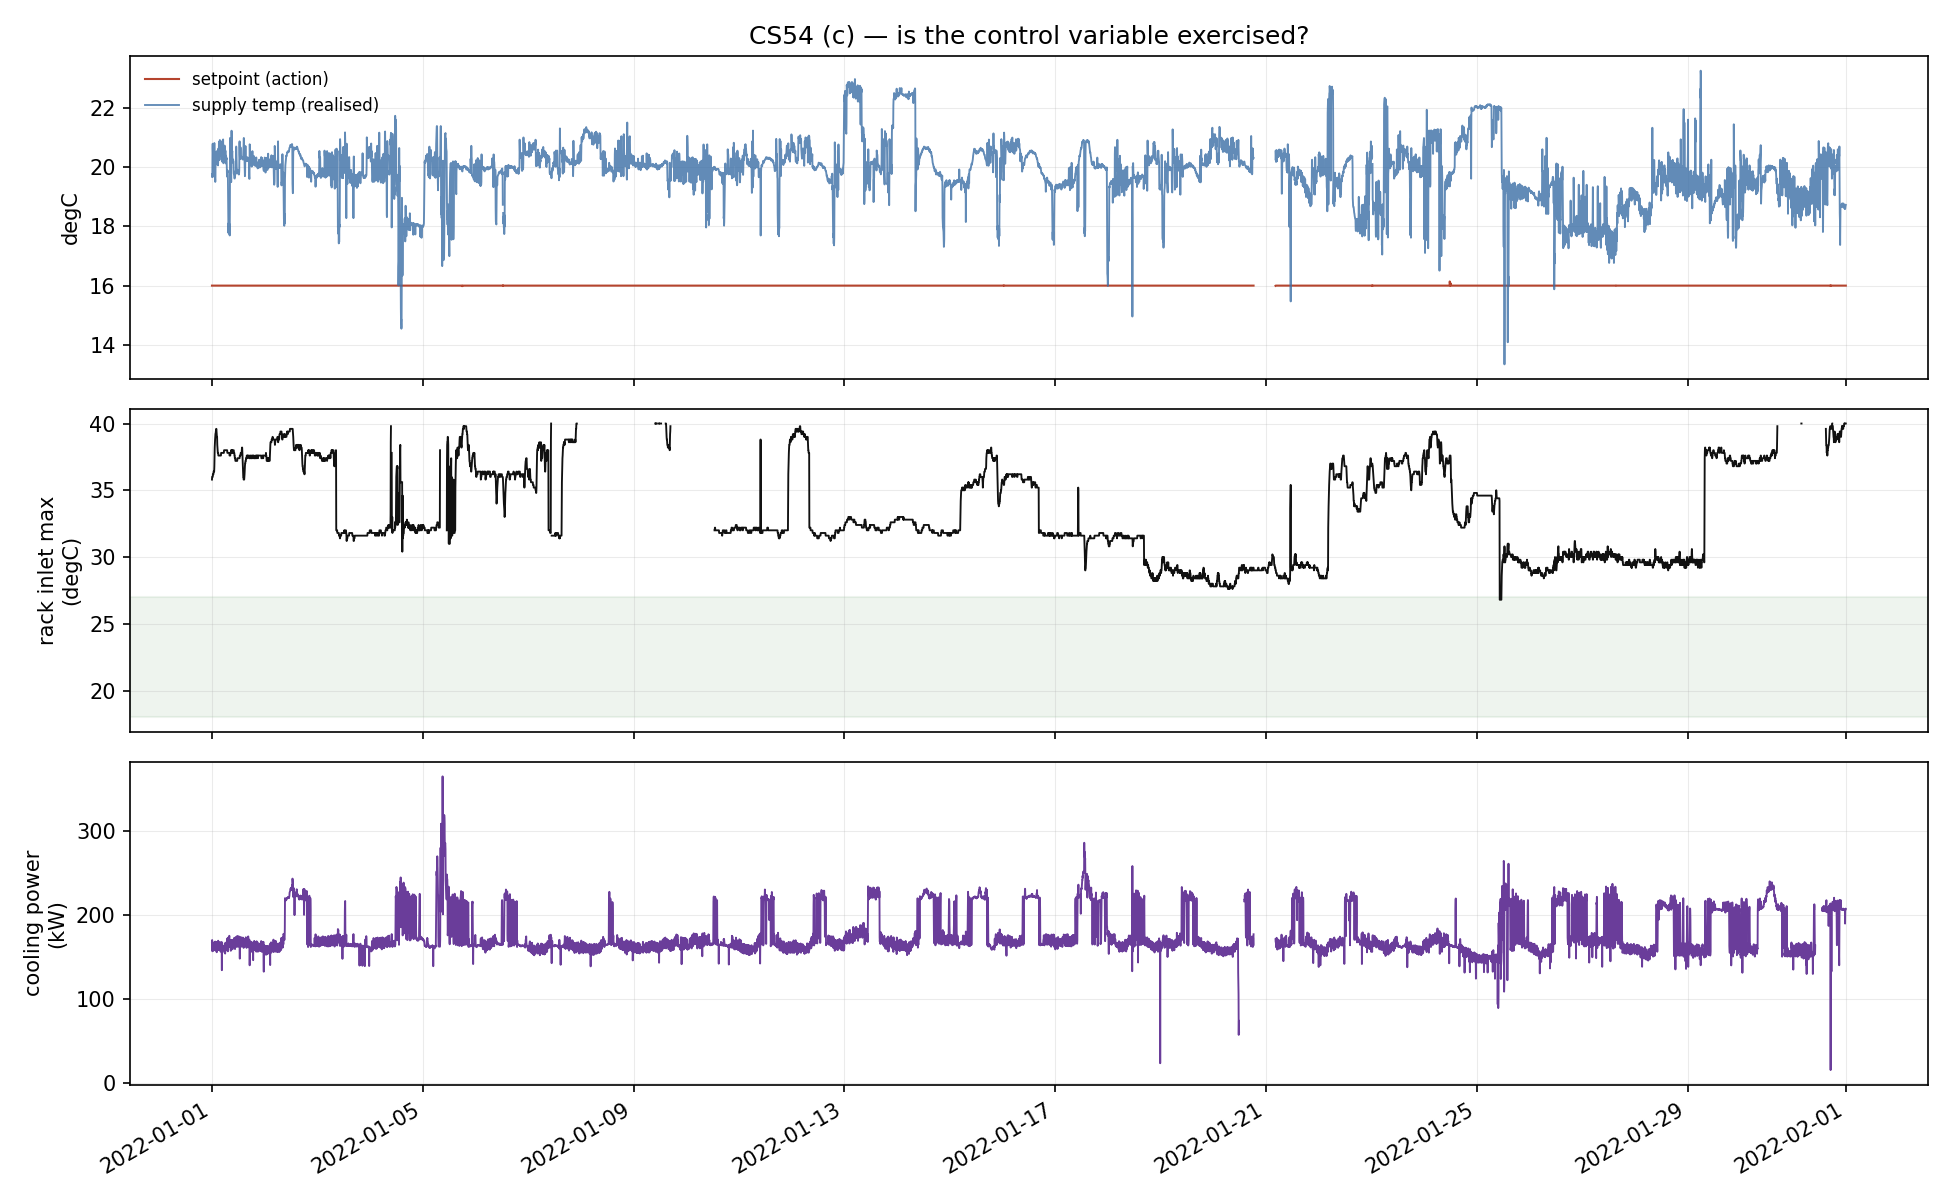
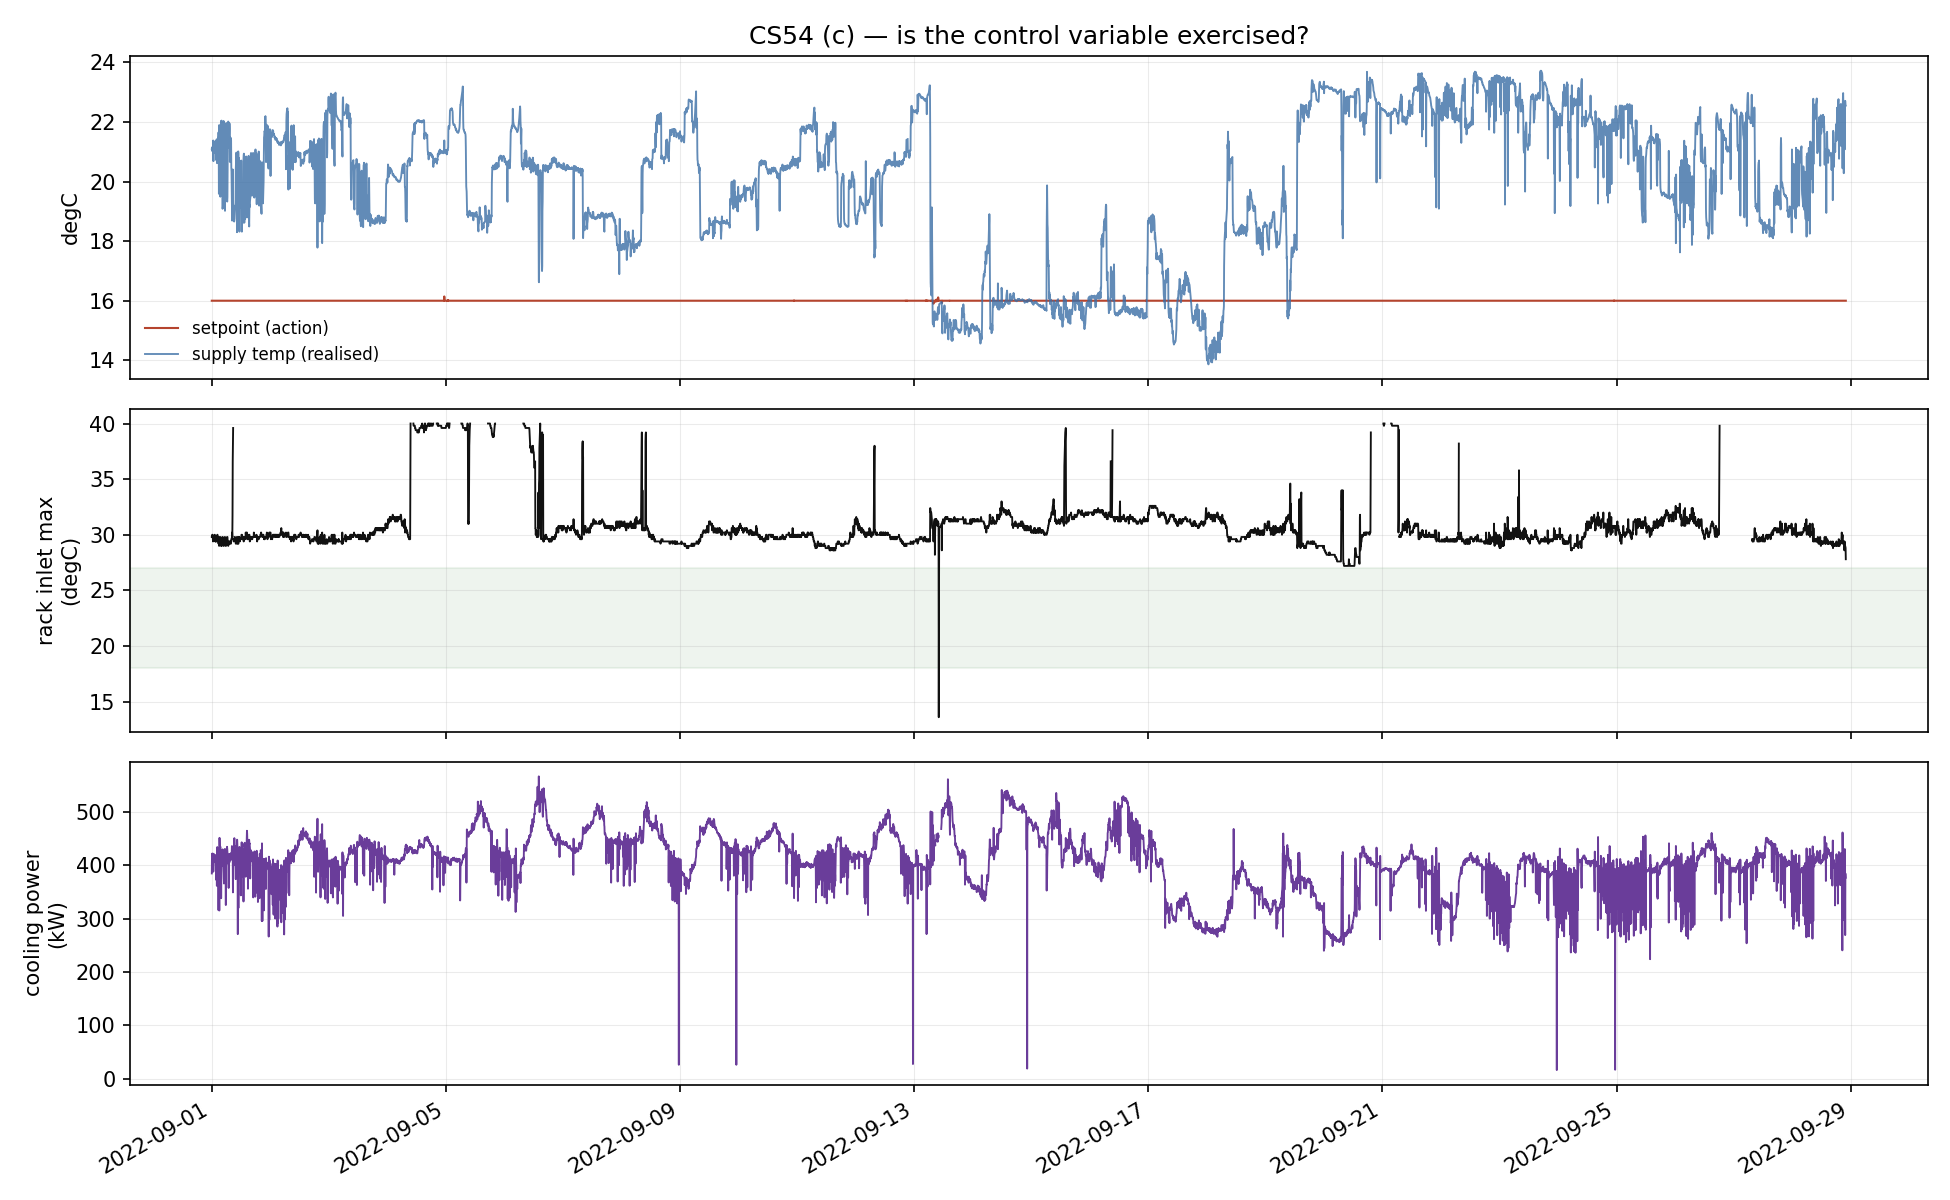
Add 22-09 summer run artifacts and overnight scripts
- results: data dictionary and PS3 action scan for 22-09
- figures: updated PS3 facility overview
- scripts: overnight_2209.sh, env_2209.sh

Claude-Session: https://claude.ai/code/session_01JRsGKQP4wfcGc6yKpsrfzk

diff --git a/results/data_dictionary_22-09.md b/results/data_dictionary_22-09.md
@@ -1,0 +1,69 @@
+# CS54 — M100 data dictionary (22-09)
+
+Siddharth Sahoo · RA2512005010041
+
+## Inventory present on disk
+
+### `ganglia_pub` — 177 metrics
+
+`Gpu0_board_limit_violation`, `Gpu0_current_clock_throttle_reasons`, `Gpu0_ecc_dbe_aggregate_total`, `Gpu0_ecc_dbe_volatile_total`, `Gpu0_ecc_sbe_aggregate_total`, `Gpu0_ecc_sbe_volatile_total`, `Gpu0_fb_free`, `Gpu0_fb_total`, `Gpu0_fb_used`, `Gpu0_gpu_temp`, `Gpu0_gpu_util_samples`, `Gpu0_gpu_utilization`, `Gpu0_low_util_violation`, `Gpu0_mem_app_clock`, `Gpu0_mem_copy_utilization`, `Gpu0_memory_clock`, `Gpu0_memory_temp`, `Gpu0_nvlink_bandwidth_total`, `Gpu0_nvlink_data_crc_error_count_total`, `Gpu0_nvlink_flit_crc_error_count_total`, `Gpu0_nvlink_recovery_error_count_total`, `Gpu0_nvlink_replay_error_count_total`, `Gpu0_power_management_limit`, `Gpu0_power_usage`, `Gpu0_power_violation`, `Gpu0_pstate`, `Gpu0_reliability_violation`, `Gpu0_retired_pages_dbe`, `Gpu0_retired_pages_pending`, `Gpu0_retired_pages_sbe`, `Gpu0_sm_app_clock`, `Gpu0_sm_clock`, `Gpu0_sync_boost_violation`, `Gpu0_thermal_violation`, `Gpu0_total_energy_consumption`, `Gpu0_xid_errors`, `Gpu1_board_limit_violation`, `Gpu1_current_clock_throttle_reasons`, `Gpu1_ecc_dbe_aggregate_total`, `Gpu1_ecc_dbe_volatile_total`, `Gpu1_ecc_sbe_aggregate_total`, `Gpu1_ecc_sbe_volatile_total`, `Gpu1_fb_free`, `Gpu1_fb_total`, `Gpu1_fb_used`, `Gpu1_gpu_temp`, `Gpu1_gpu_util_samples`, `Gpu1_gpu_utilization`, `Gpu1_low_util_violation`, `Gpu1_mem_app_clock`, `Gpu1_mem_copy_utilization`, `Gpu1_memory_clock`, `Gpu1_memory_temp`, `Gpu1_nvlink_bandwidth_total`, `Gpu1_nvlink_data_crc_error_count_total`, `Gpu1_nvlink_flit_crc_error_count_total`, `Gpu1_nvlink_recovery_error_count_total`, `Gpu1_nvlink_replay_error_count_total`, `Gpu1_power_management_limit`, `Gpu1_power_usage`, `Gpu1_power_violation`, `Gpu1_pstate`, `Gpu1_reliability_violation`, `Gpu1_retired_pages_dbe`, `Gpu1_retired_pages_pending`, `Gpu1_retired_pages_sbe`, `Gpu1_sm_app_clock`, `Gpu1_sm_clock`, `Gpu1_sync_boost_violation`, `Gpu1_thermal_violation`, `Gpu1_total_energy_consumption`, `Gpu1_xid_errors`, `Gpu2_board_limit_violation`, `Gpu2_current_clock_throttle_reasons`, `Gpu2_ecc_dbe_aggregate_total`, `Gpu2_ecc_dbe_volatile_total`, `Gpu2_ecc_sbe_aggregate_total`, `Gpu2_ecc_sbe_volatile_total`, `Gpu2_fb_free`, `Gpu2_fb_total`, `Gpu2_fb_used`, `Gpu2_gpu_temp`, `Gpu2_gpu_util_samples`, `Gpu2_gpu_utilization`, `Gpu2_low_util_violation`, `Gpu2_mem_app_clock`, `Gpu2_mem_copy_utilization`, `Gpu2_memory_clock`, `Gpu2_memory_temp`, `Gpu2_nvlink_bandwidth_total`, `Gpu2_nvlink_data_crc_error_count_total`, `Gpu2_nvlink_flit_crc_error_count_total`, `Gpu2_nvlink_recovery_error_count_total`, `Gpu2_nvlink_replay_error_count_total`, `Gpu2_power_management_limit`, `Gpu2_power_usage`, `Gpu2_power_violation`, `Gpu2_pstate`, `Gpu2_reliability_violation`, `Gpu2_retired_pages_dbe`, `Gpu2_retired_pages_pending`, `Gpu2_retired_pages_sbe`, `Gpu2_sm_app_clock`, `Gpu2_sm_clock`, `Gpu2_sync_boost_violation`, `Gpu2_thermal_violation`, `Gpu2_total_energy_consumption`, `Gpu2_xid_errors`, `Gpu3_board_limit_violation`, `Gpu3_current_clock_throttle_reasons`, `Gpu3_ecc_dbe_aggregate_total`, `Gpu3_ecc_dbe_volatile_total`, `Gpu3_ecc_sbe_aggregate_total`, `Gpu3_ecc_sbe_volatile_total`, `Gpu3_fb_free`, `Gpu3_fb_total`, `Gpu3_fb_used`, `Gpu3_gpu_temp`, `Gpu3_gpu_util_samples`, `Gpu3_gpu_utilization`, `Gpu3_low_util_violation`, `Gpu3_mem_app_clock`, `Gpu3_mem_copy_utilization`, `Gpu3_memory_clock`, `Gpu3_memory_temp`, `Gpu3_nvlink_bandwidth_total`, `Gpu3_nvlink_data_crc_error_count_total`, `Gpu3_nvlink_flit_crc_error_count_total`, `Gpu3_nvlink_recovery_error_count_total`, `Gpu3_nvlink_replay_error_count_total`, `Gpu3_power_management_limit`, `Gpu3_power_usage`, `Gpu3_power_violation`, `Gpu3_pstate`, `Gpu3_reliability_violation`, `Gpu3_retired_pages_dbe`, `Gpu3_retired_pages_pending`, `Gpu3_retired_pages_sbe`, `Gpu3_sm_app_clock`, `Gpu3_sm_clock`, `Gpu3_sync_boost_violation`, `Gpu3_thermal_violation`, `Gpu3_total_energy_consumption`, `Gpu3_xid_errors`, `boottime`, `bytes_in`, `bytes_out`, `cpu_aidle`, `cpu_idle`, `cpu_nice`, `cpu_num`, `cpu_speed`, `cpu_steal`, `cpu_system`, `cpu_user`, `cpu_wio`, `disk_free`, `disk_total`, `gexec`, `load_fifteen`, `load_five`, `load_one`, `machine_type`, `mem_buffers`, `mem_cached`, `mem_free`, `mem_shared`, `mem_total`, `os_name`, `os_release`, `part_max_used`, `pkts_in`, `pkts_out`, `proc_run`, `proc_total`, `swap_free`, `swap_total`
+
+### `ipmi_pub` — 104 metrics
+
+`ambient`, `dimm0_temp`, `dimm10_temp`, `dimm11_temp`, `dimm12_temp`, `dimm13_temp`, `dimm14_temp`, `dimm15_temp`, `dimm1_temp`, `dimm2_temp`, `dimm3_temp`, `dimm4_temp`, `dimm5_temp`, `dimm6_temp`, `dimm7_temp`, `dimm8_temp`, `dimm9_temp`, `fan0_0`, `fan0_1`, `fan1_0`, `fan1_1`, `fan2_0`, `fan2_1`, `fan3_0`, `fan3_1`, `fan_disk_power`, `gpu0_core_temp`, `gpu0_mem_temp`, `gpu1_core_temp`, `gpu1_mem_temp`, `gpu3_core_temp`, `gpu3_mem_temp`, `gpu4_core_temp`, `gpu4_mem_temp`, `gv100card0`, `gv100card1`, `gv100card3`, `gv100card4`, `p0_core0_temp`, `p0_core10_temp`, `p0_core11_temp`, `p0_core12_temp`, `p0_core13_temp`, `p0_core14_temp`, `p0_core15_temp`, `p0_core16_temp`, `p0_core17_temp`, `p0_core18_temp`, `p0_core19_temp`, `p0_core1_temp`, `p0_core20_temp`, `p0_core21_temp`, `p0_core22_temp`, `p0_core23_temp`, `p0_core2_temp`, `p0_core3_temp`, `p0_core4_temp`, `p0_core5_temp`, `p0_core6_temp`, `p0_core7_temp`, `p0_core8_temp`, `p0_core9_temp`, `p0_io_power`, `p0_mem_power`, `p0_power`, `p0_vdd_temp`, `p1_core0_temp`, `p1_core10_temp`, `p1_core11_temp`, `p1_core12_temp`, `p1_core13_temp`, `p1_core14_temp`, `p1_core15_temp`, `p1_core16_temp`, `p1_core17_temp`, `p1_core18_temp`, `p1_core19_temp`, `p1_core1_temp`, `p1_core20_temp`, `p1_core21_temp`, `p1_core22_temp`, `p1_core23_temp`, `p1_core2_temp`, `p1_core3_temp`, `p1_core4_temp`, `p1_core5_temp`, `p1_core6_temp`, `p1_core7_temp`, `p1_core8_temp`, `p1_core9_temp`, `p1_io_power`, `p1_mem_power`, `p1_power`, `p1_vdd_temp`, `pcie`, `ps0_input_power`, `ps0_input_voltag`, `ps0_output_curre`, `ps0_output_volta`, `ps1_input_power`, `ps1_input_voltag`, `ps1_output_curre`, `ps1_output_volta`, `total_power`
+
+### `job_table` — 1 metrics
+
+`job_info_marconi100`
+
+### `logics_pub` — 37 metrics
+
+`Bad_values`, `Comlost`, `Corrente`, `Corrente_L1`, `Corrente_L2`, `Corrente_L3`, `Dcie`, `Energia`, `Fattore_di_potenza`, `Frequenza`, `Gateway`, `ID_Modbus`, `Mvar`, `Mvarh`, `Mw`, `Mwh`, `Potenza`, `Potenza_attiva`, `Prototype`, `Pue`, `Stato`, `Status`, `Tensione`, `Tot`, `Tot_cdz`, `Tot_chiller`, `Tot_ict`, `Tot_qpompe`, `Tot_servizi`, `Volt1`, `Volt2`, `Volt3`, `address`, `deviceid`, `pit`, `pt`, `pue`
+
+### `nagios_pub` — 1 metrics
+
+`state`
+
+### `schneider_pub` — 164 metrics
+
+`Alm_TY141`, `PLC_PLC_Q101.Abilita_inverter`, `PLC_PLC_Q101.Abilita_valvola1`, `PLC_PLC_Q101.Abilita_valvola2`, `PLC_PLC_Q101.Allarme_on`, `PLC_PLC_Q101.Allarme_presente`, `PLC_PLC_Q101.Alm_inverter_p101`, `PLC_PLC_Q101.Alm_inverter_p102`, `PLC_PLC_Q101.Alm_inverter_p103`, `PLC_PLC_Q101.Alm_inverter_p104`, `PLC_PLC_Q101.Alm_max_portata`, `PLC_PLC_Q101.Alm_max_t_mandata`, `PLC_PLC_Q101.Alm_max_t_ritorno`, `PLC_PLC_Q101.Alm_min_portata`, `PLC_PLC_Q101.Alm_min_t_mandata`, `PLC_PLC_Q101.Alm_nostart_p101`, `PLC_PLC_Q101.Alm_nostart_p102`, `PLC_PLC_Q101.Alm_nostart_p103`, `PLC_PLC_Q101.Alm_nostart_p104`, `PLC_PLC_Q101.Alm_w1`, `PLC_PLC_Q101.Cmd_valvola_1`, `PLC_PLC_Q101.Cmd_valvola_2`, `PLC_PLC_Q101.Delta_temp`, `PLC_PLC_Q101.Diff_minuti_cavedio`, `PLC_PLC_Q101.Diff_minuti_quadro`, `PLC_PLC_Q101.Diff_minuti_sala`, `PLC_PLC_Q101.In_marcia_p101`, `PLC_PLC_Q101.In_marcia_p102`, `PLC_PLC_Q101.In_marcia_p103`, `PLC_PLC_Q101.In_marcia_p104`, `PLC_PLC_Q101.Kp_pid_pompe`, `PLC_PLC_Q101.Kp_pid_valvole`, `PLC_PLC_Q101.Manuale_p101`, `PLC_PLC_Q101.Manuale_p102`, `PLC_PLC_Q101.Manuale_p103`, `PLC_PLC_Q101.Manuale_p104`, `PLC_PLC_Q101.Manuale_ty141`, `PLC_PLC_Q101.Manuale_ty142`, `PLC_PLC_Q101.Max_ana_out_ty141`, `PLC_PLC_Q101.Max_ana_out_ty142`, `PLC_PLC_Q101.Max_ana_portata1`, `PLC_PLC_Q101.Max_ana_portata2`, `PLC_PLC_Q101.Max_ana_pos_ty141`, `PLC_PLC_Q101.Max_ana_pos_ty142`, `PLC_PLC_Q101.Max_portata`, `PLC_PLC_Q101.Max_t_mandata`, `PLC_PLC_Q101.Max_t_ritorno`, `PLC_PLC_Q101.Max_visi_portata2`, `PLC_PLC_Q101.Max_visu_portata1`, `PLC_PLC_Q101.Min_ana_out_ty141`, `PLC_PLC_Q101.Min_ana_out_ty142`, `PLC_PLC_Q101.Min_ana_portata1`, `PLC_PLC_Q101.Min_ana_portata2`, `PLC_PLC_Q101.Min_ana_pos_ty141`, `PLC_PLC_Q101.Min_ana_pos_ty142`, `PLC_PLC_Q101.Min_lavoro_p101`, `PLC_PLC_Q101.Min_lavoro_p102`, `PLC_PLC_Q101.Min_lavoro_p103`, `PLC_PLC_Q101.Min_lavoro_p104`, `PLC_PLC_Q101.Min_lavoro_quadro`, `PLC_PLC_Q101.Min_out_pid_pompe`, `PLC_PLC_Q101.Min_out_pid_valv`, `PLC_PLC_Q101.Min_parz_p101`, `PLC_PLC_Q101.Min_parz_p102`, `PLC_PLC_Q101.Min_parz_p103`, `PLC_PLC_Q101.Min_parz_p104`, `PLC_PLC_Q101.Min_parziali_p101`, `PLC_PLC_Q101.Min_parziali_p102`, `PLC_PLC_Q101.Min_parziali_p103`, `PLC_PLC_Q101.Min_parziali_p104`, `PLC_PLC_Q101.Min_parziali_quadro`, `PLC_PLC_Q101.Min_portata`, `PLC_PLC_Q101.Min_t_mandata`, `PLC_PLC_Q101.Min_vel_pompe`, `PLC_PLC_Q101.Min_visu_portata1`, `PLC_PLC_Q101.Min_visu_portata2`, `PLC_PLC_Q101.Ore_lavoro_p101`, `PLC_PLC_Q101.Ore_lavoro_p102`, `PLC_PLC_Q101.Ore_lavoro_p103`, `PLC_PLC_Q101.Ore_lavoro_p104`, `PLC_PLC_Q101.Ore_parziali_p101`, `PLC_PLC_Q101.Ore_parziali_p102`, `PLC_PLC_Q101.Ore_parziali_p103`, `PLC_PLC_Q101.Ore_parziali_p104`, `PLC_PLC_Q101.Out_pid_pompe`, `PLC_PLC_Q101.Out_pid_val`, `PLC_PLC_Q101.P101_fault`, `PLC_PLC_Q101.P101_in_marcia`, `PLC_PLC_Q101.P102_fault`, `PLC_PLC_Q101.P102_in_marcia`, `PLC_PLC_Q101.P103_fault`, `PLC_PLC_Q101.P103_in_marcia`, `PLC_PLC_Q101.P104_fault`, `PLC_PLC_Q101.P104_in_marcia`, `PLC_PLC_Q101.Pb_arresto_p101`, `PLC_PLC_Q101.Pb_arresto_p102`, `PLC_PLC_Q101.Pb_arresto_p103`, `PLC_PLC_Q101.Pb_arresto_p104`, `PLC_PLC_Q101.Pb_marcia_p101`, `PLC_PLC_Q101.Pb_marcia_p102`, `PLC_PLC_Q101.Pb_marcia_p103`, `PLC_PLC_Q101.Pb_marcia_p104`, `PLC_PLC_Q101.Portata_1`, `PLC_PLC_Q101.Portata_1_hmi`, `PLC_PLC_Q101.Portata_2`, `PLC_PLC_Q101.Portata_2_hmi`, `PLC_PLC_Q101.Portata_attiva`, `PLC_PLC_Q101.Pos_valvola1`, `PLC_PLC_Q101.Pos_valvola_2`, `PLC_PLC_Q101.Posizione_ty141`, `PLC_PLC_Q101.Posizione_ty142`, `PLC_PLC_Q101.Rif_auto_attivo`, `PLC_PLC_Q101.Rif_auto_p101`, `PLC_PLC_Q101.Rif_auto_p102`, `PLC_PLC_Q101.Rif_auto_ty141`, `PLC_PLC_Q101.Rif_auto_ty142`, `PLC_PLC_Q101.Rif_inverter`, `PLC_PLC_Q101.Rif_man_p101`, `PLC_PLC_Q101.Rif_man_p102`, `PLC_PLC_Q101.Rif_man_ty141`, `PLC_PLC_Q101.Rif_man_ty142`, `PLC_PLC_Q101.Sel_misuratore`, `PLC_PLC_Q101.Set_man_pid_pompe`, `PLC_PLC_Q101.Set_man_pid_valv`, `PLC_PLC_Q101.Set_temperatura`, `PLC_PLC_Q101.Start_impianto`, `PLC_PLC_Q101.Start_p101`, `PLC_PLC_Q101.Start_p102`, `PLC_PLC_Q101.Start_p103`, `PLC_PLC_Q101.Start_p104`, `PLC_PLC_Q101.Stato_p101`, `PLC_PLC_Q101.Stato_p102`, `PLC_PLC_Q101.Stato_p103`, `PLC_PLC_Q101.Stato_p104`, `PLC_PLC_Q101.Stato_quadro`, `PLC_PLC_Q101.Status_w1`, `PLC_PLC_Q101.Status_w2`, `PLC_PLC_Q101.T_mandata_hmi`, `PLC_PLC_Q101.T_ritorno_hmi`, `PLC_PLC_Q101.T_scambio_cavedio`, `PLC_PLC_Q101.T_scambio_quadri`, `PLC_PLC_Q101.T_scambio_sala`, `PLC_PLC_Q101.Td_pid_pompe`, `PLC_PLC_Q101.Td_pid_valvole`, `PLC_PLC_Q101.Temp_mandata`, `PLC_PLC_Q101.Temp_ritorno`, `PLC_PLC_Q101.Ti_pid_pompe`, `PLC_PLC_Q101.Ti_pid_valvole`, `PLC_PLC_Q101.V_min_rem_cavedio`, `PLC_PLC_Q101.V_min_rem_quadro`, `PLC_PLC_Q101.V_min_rem_sala`, `PLC_PLC_Q101.V_ore_parz_p101`, `PLC_PLC_Q101.V_ore_parz_p102`, `PLC_PLC_Q101.V_ore_parz_p103`, `PLC_PLC_Q101.V_ore_parz_p104`, `PLC_PLC_Q101.V_ore_parz_quadro`, `PLC_PLC_Q101.V_ore_rem_cavedio`, `PLC_PLC_Q101.V_ore_rem_quadro`, `PLC_PLC_Q101.V_ore_rem_sala`, `PLC_PLC_Q101.V_ore_tot_p101`, `PLC_PLC_Q101.V_ore_tot_p102`, `PLC_PLC_Q101.V_ore_tot_p103`, `PLC_PLC_Q101.V_ore_tot_p104`, `PLC_PLC_Q101.V_ore_tot_quadro`
+
+### `slurm_pub` — 34 metrics
+
+`job_id`, `num_nodes`, `s21.cluster_cpu_util`, `s21.cluster_gpu_util`, `s21.cluster_mem_util`, `s21.jobs.avg_waiting_hour`, `s21.jobs.eligible_v2`, `s21.jobs.nodes_eligible_v2`, `s21.jobs.p95_waiting_hour`, `s21.jobs.tot_gpus`, `s21.jobs.tot_jobs`, `s21.jobs.tot_node_hour`, `s21.jobs.tot_nodes`, `s21.totals.cpus_alloc`, `s21.totals.cpus_config`, `s21.totals.cpus_down`, `s21.totals.cpus_eligible`, `s21.totals.cpus_idle`, `s21.totals.gpus_alloc`, `s21.totals.gpus_config`, `s21.totals.gpus_down`, `s21.totals.gpus_eligible`, `s21.totals.gpus_idle`, `s21.totals.memory_alloc`, `s21.totals.memory_config`, `s21.totals.memory_down`, `s21.totals.memory_eligible`, `s21.totals.memory_idle`, `s21.totals.total_nodes_alloc`, `s21.totals.total_nodes_config`, `s21.totals.total_nodes_down`, `s21.totals.total_nodes_eligible`, `s21.totals.total_nodes_idle`, `s21.totals.total_nodes_mixed`
+
+### `vertiv_pub` — 25 metrics
+
+`Actual_Return_Air_Temperature_Set_Point`, `Actual_Return_Humidity_Set_Point`, `Adjusted_Humidity`, `Compressor_Utilization`, `Dehumidifier_Utilization`, `Ext_Air_Sensor_A_Humidity`, `Ext_Air_Sensor_A_Temperature`, `Ext_Air_Sensor_B_Humidity`, `Ext_Air_Sensor_B_Temperature`, `Ext_Air_Sensor_C_Humidity`, `Ext_Air_Sensor_C_Temperature`, `Fan_Speed`, `Filter_Pressure_Drop`, `Free_Cooling_Fluid_Temperature`, `Free_Cooling_Status`, `Free_Cooling_Valve_Open_Position`, `Hot_Water___Hot_Gas_Valve_Open_Position`, `Humidifier_Utilization`, `Humidity_Set_Point`, `Reheat_Utilization`, `Return_Air_Temperature`, `Return_Humidity`, `Supply_Air_Temperature`, `Supply_Air_Temperature_Set_Point`, `Underflow_Static_Pressure`
+
+### `weather_pub` — 10 metrics
+
+`clouds`, `dew_point`, `feels_like`, `humidity`, `pressure`, `temp`, `uvi`, `visibility`, `wind_deg`, `wind_speed`
+
+## Metrics selected for this study
+
+| plugin      | metric           |   n_files |   size_mb | columns                     | time_col   | value_col   | entity_col   |   entities_in_sample | sample_time_min     | sample_time_max     |        val_min |          val_max |        val_mean |   val_null_% |
+|:------------|:-----------------|----------:|----------:|:----------------------------|:-----------|:------------|:-------------|---------------------:|:--------------------|:--------------------|---------------:|-----------------:|----------------:|-------------:|
+| ipmi_pub    | total_power      |         1 |      96.6 | timestamp, value, node      | timestamp  | value       | node         |                    3 | 2022-09-10 22:00:00 | 2022-09-11 21:59:40 |   360          |   1400           |   623.472       |            0 |
+| ipmi_pub    | ambient          |         1 |      46.4 | timestamp, value, node      | timestamp  | value       | node         |                    2 | 2022-09-09 22:00:00 | 2022-09-10 21:59:40 |    21.6        |     25.2         |    23.8237      |            0 |
+| ipmi_pub    | p0_power         |         1 |      84   | timestamp, value, node      | timestamp  | value       | node         |                    2 | 2022-09-01 22:00:00 | 2022-09-02 21:59:40 |    26          |    192           |    63.5036      |            0 |
+| ipmi_pub    | p1_power         |         1 |      87.6 | timestamp, value, node      | timestamp  | value       | node         |                    2 | 2022-09-06 22:00:00 | 2022-09-07 21:59:40 |    24          |    188           |    91.8052      |            0 |
+| ipmi_pub    | fan0_0           |         1 |      41.4 | timestamp, value, node      | timestamp  | value       | node         |                    2 | 2022-09-27 22:00:00 | 2022-09-28 21:59:40 |  4300          |   7300           |  4457.02        |            0 |
+| ipmi_pub    | fan0_1           |         1 |      35.4 | timestamp, value, node      | timestamp  | value       | node         |                    2 | 2022-09-17 22:00:00 | 2022-09-18 21:59:40 |  4600          |   4700           |  4696.18        |            0 |
+| ipmi_pub    | p0_core0_temp    |         1 |      28.3 | timestamp, value, node      | timestamp  | value       | node         |                    3 | 2022-09-11 22:00:00 | 2022-09-12 21:59:40 |    40          |     60           |    46.3438      |            0 |
+| ipmi_pub    | p1_core0_temp    |         1 |      26.2 | timestamp, value, node      | timestamp  | value       | node         |                    2 | 2022-09-23 22:00:00 | 2022-09-24 21:59:40 |    37          |     61           |    46.5956      |            0 |
+| ganglia_pub | cpu_user         |         1 |     100.7 | timestamp, value, node      | timestamp  | value       | node         |                    6 | 2022-09-09 22:00:06 | 2022-09-10 21:58:57 |     0          |     60.2         |     0.0792      |            0 |
+| ganglia_pub | cpu_system       |         1 |      89.4 | timestamp, value, node      | timestamp  | value       | node         |                    6 | 2022-09-21 22:00:04 | 2022-09-22 21:59:56 |     0          |      1           |     0.0197      |            0 |
+| ganglia_pub | cpu_idle         |         1 |      99.1 | timestamp, value, node      | timestamp  | value       | node         |                    7 | 2022-09-16 22:00:03 | 2022-09-17 21:59:12 |    73.6        |     99.9         |    93.8482      |            0 |
+| ganglia_pub | cpu_wio          |         1 |      75.7 | timestamp, value, node      | timestamp  | value       | node         |                    6 | 2022-09-18 22:01:19 | 2022-09-19 21:59:59 |     0          |      0           |     0           |            0 |
+| ganglia_pub | load_one         |         1 |     156.5 | timestamp, value, node      | timestamp  | value       | node         |                    5 | 2022-09-09 22:00:02 | 2022-09-10 21:59:58 |     0.21       |     98.16        |    23.0135      |            0 |
+| ganglia_pub | load_five        |         1 |     150.2 | timestamp, value, node      | timestamp  | value       | node         |                    4 | 2022-09-07 22:00:42 | 2022-09-08 21:59:36 |     0.07       |     72.88        |    35.7595      |            0 |
+| ganglia_pub | mem_free         |         1 |     217.8 | timestamp, value, node      | timestamp  | value       | node         |                    4 | 2022-09-15 22:00:09 | 2022-09-16 21:59:42 |     9.7136e+07 |      2.93971e+08 |     2.61681e+08 |            0 |
+| ganglia_pub | bytes_in         |         1 |      98.9 | timestamp, value, node      | timestamp  | value       | node         |                   10 | 2022-09-03 22:00:16 | 2022-09-04 21:59:46 |  4156.26       |      2.19449e+06 | 10817.2         |            0 |
+| ganglia_pub | bytes_out        |         1 |     100.2 | timestamp, value, node      | timestamp  | value       | node         |                    9 | 2022-09-07 22:00:18 | 2022-09-08 21:57:44 | 14008.7        | 654309           | 25168.2         |            0 |
+| ganglia_pub | proc_run         |         1 |      66   | timestamp, value, node      | timestamp  | value       | node         |                    7 | 2022-09-07 22:00:23 | 2022-09-08 21:59:39 |     0          |    140           |    20.448       |            0 |
+| slurm_pub   | cluster_cpu_util |         1 |       1.3 | timestamp, value, partition | timestamp  | value       |              |                    0 | 2022-09-12 22:00:00 | 2022-09-24 21:59:50 |     0          |     79.3023      |    31.1523      |            0 |
+
+## Requested but absent
+
+- `slurm_pub/cluster_memory_util`
